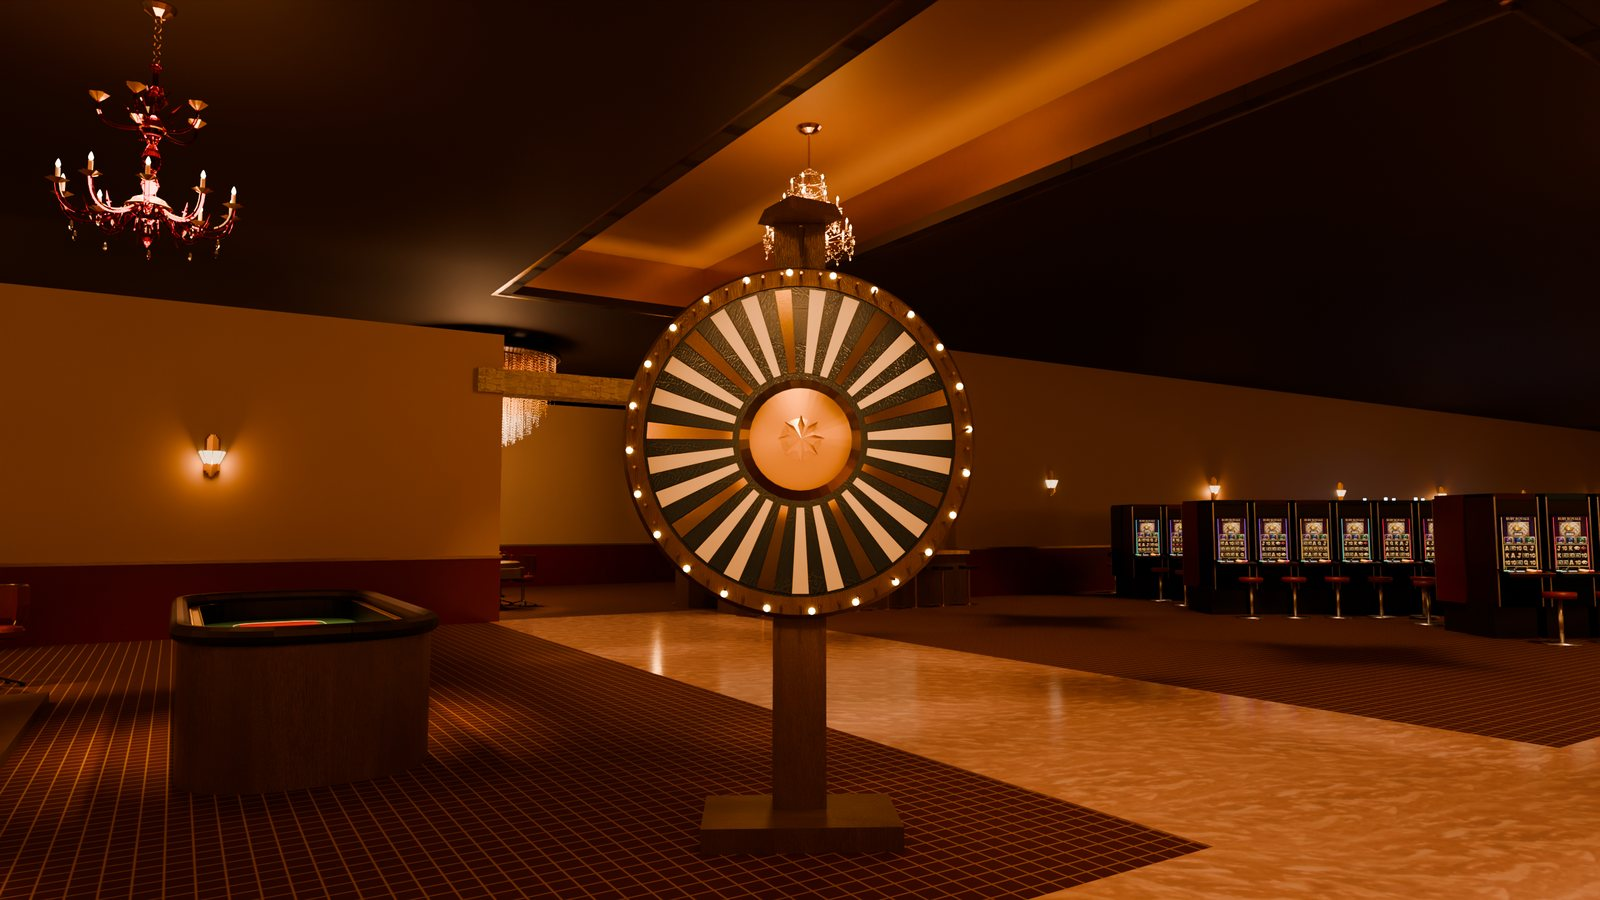
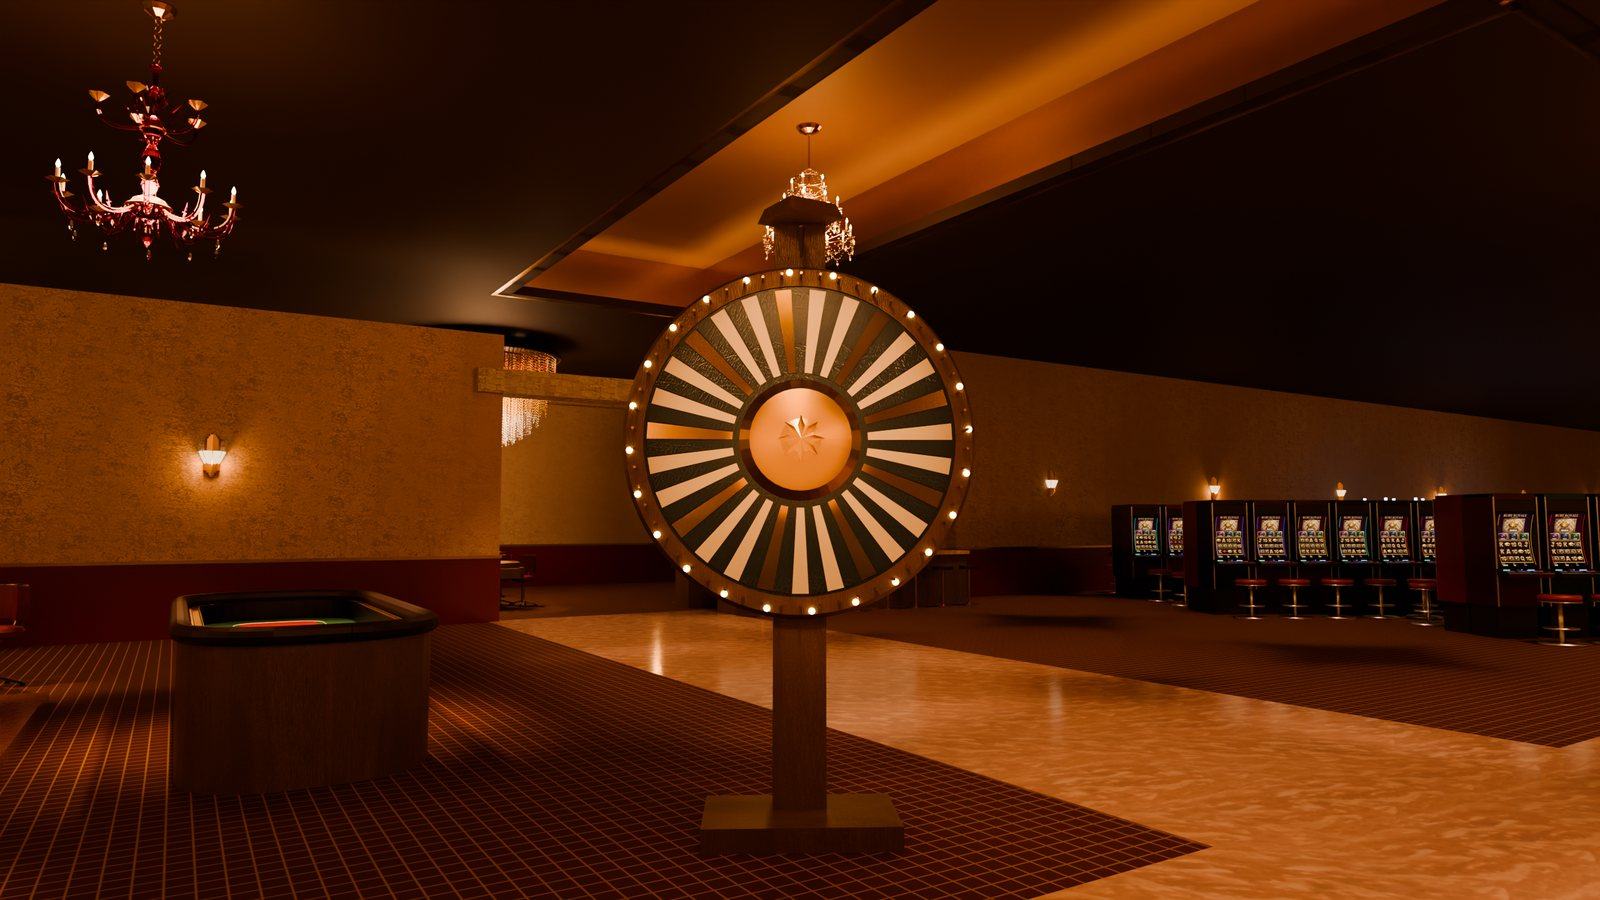
The Vulp, inside and out: run 3's exterior, its new trees and textures, replacing yesterday's interior shots.

diff --git a/index.html b/index.html
@@ -227,31 +227,41 @@ footer .small{color:#8f829d;font-size:.84rem;margin-top:20px}
       Geospatial Program.</p>
     </section>
 
-    <!-- THE VULP, INSIDE: four renders from the lab's 3D floor (2026-10-01, the lighting
-         pass), picked by the Owner the same day. Modelled with AI tools and not yet given
-         the human pass, so the note says so (BARKER.md rule 3). The overhead view is from
-         the first pass, with stand-in cabinets. The machines' screens show the game's
-         current symbol art, so this note never claims "no image generation". -->
+    <!-- THE VULP: renders from the lab's 3D build (run 3, 2026-10-02: the exterior, the
+         trees, the photo textures), picked by the Eye and approved by the Owner on preview.
+         The bar is run 2's social render from the Owner's own camera (2026-10-01); run 3
+         left the bar unchanged. Modelled with AI tools and not yet given the human pass, so
+         the note says so (BARKER.md rule 3). The machines' screens show the game's current
+         symbol art, so this note never claims "no image generation". -->
     <section aria-labelledby="h-inside">
-      <div class="label">The Vulp, inside</div>
-      <h2 id="h-inside">One floor, built once</h2>
+      <div class="label">The Vulp</div>
+      <h2 id="h-inside">One building, built once</h2>
       <div class="copy">
-        <p>We built the casino floor once, in 3D, and every scene in the game is a camera on
-        it. Slots sit in warm pools of light, every table is lit from both ends, and each part
-        of the floor has its own family of chandeliers.</p>
+        <p>We built the Vulp once, in 3D, inside and out, and every scene in the game is a
+        camera on it. You pull in off the boulevard under the porte-cochère. Inside, slots sit
+        in warm pools of light, every table is lit from both ends, and each part of the floor
+        has its own family of chandeliers.</p>
       </div>
       <div class="gallery sixteen">
+        <figure class="wide"><img class="r83" src="img/vulp_entrance.jpg" width="1600" height="600" loading="lazy"
+          alt="The casino's covered entrance at blue hour: a deep canopy studded with lights over stone columns on red granite bases, a glowing doorway into the casino, a fountain with arcing jets at left and a clipped boxwood ball on the brick paving."></figure>
+        <figure><img class="r83" src="img/vulp_boulevard.jpg" width="1600" height="600" loading="lazy"
+          alt="A wide, empty boulevard at blue hour, lined with leafy street trees and lamp posts. A long, low stone building sits beside it, with the dark tower of the hotel rising behind."></figure>
+        <figure><img class="r83" src="img/vulp_courtyard.jpg" width="1600" height="600" loading="lazy"
+          alt="A round fountain with arcing jets on a red brick plaza by day, in front of the low stone casino building and its entrance canopy, with trees and clipped hedges on either side and the hotel tower above."></figure>
+        <figure class="wide"><img class="r83" src="img/vulp_pool.jpg" width="1600" height="600" loading="lazy"
+          alt="The pool deck by day: two pools on pale stone paving, a row of date palms and slim cypress trees, and white cabanas along the far edge under a clear sky."></figure>
         <figure class="wide"><img src="img/vulp_bar.jpg" width="1600" height="900" loading="lazy"
           alt="A round bar at the centre of a casino floor, its back bar lined with lit bottles, wrapped around a tall column of crossing brass ribs that rises into a dark ceiling. Red-topped stools ring the counter, the polished floor reflects the lights, and banks of slot machines glow beyond."></figure>
         <figure><img src="img/vulp_promenade.jpg" width="1600" height="900" loading="lazy"
-          alt="A wide polished walkway through the casino under a gold-lit ceiling, with a candle chandelier overhead. A long row of slot machines with red stools runs down the left, and the round bar glows on the right behind a planter."></figure>
+          alt="A wide polished walkway through the casino under a gold-lit ceiling, with a candle chandelier overhead. A long row of slot machines with red stools runs down the left, the round bar glows on the right, and leafy trees grow from stone planters on either side."></figure>
         <figure><img src="img/vulp_big_six.jpg" width="1600" height="900" loading="lazy"
           alt="A tall money wheel on a wooden post, ringed with marquee bulbs, standing at the corner of the table games. A red glass chandelier hangs at left, a craps table sits in the shadows, and slot machines line the far wall."></figure>
         <figure class="wide"><img class="r83" src="img/vulp_floor.jpg" width="1600" height="600" loading="lazy"
-          alt="The whole casino floor seen from above with the roof off: the brass-ribbed column and round bar at the centre, slot banks set at angles in every direction, table games at right, and walkways lit by pools of light."></figure>
+          alt="The whole casino floor seen from above with the roof off: the brass-ribbed column and round bar at the centre, rows of slot machines set at angles in every direction, table games at right, and walkways lit by pools of light."></figure>
       </div>
       <p class="gallery-note">Work in progress: modelled in 3D with AI tools, before its human
-      pass. The view from above is an earlier render, with stand-in cabinets.</p>
+      pass. Many of its surfaces are textures made from the developer's own photographs.</p>
     </section>
 
     <!-- THE CABINET: the diegetic interface, and the real numbers inside it (the Owner,
